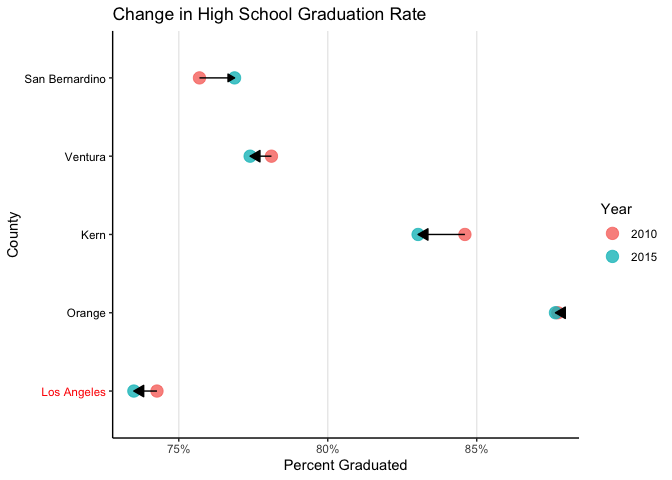
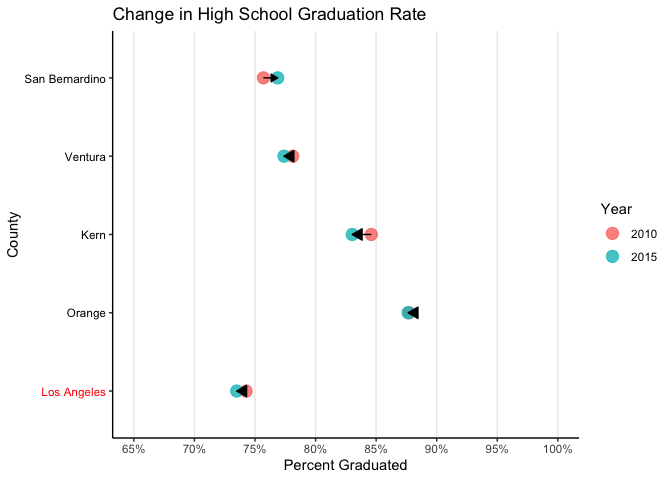
LA grad rates md file updated

diff --git a/2. Graph Creation/LA/LA-Final-Graphs.md b/2. Graph Creation/LA/LA-Final-Graphs.md
@@ -403,6 +403,7 @@ ggplot() +
   theme(panel.grid.major.x=element_line(), axis.text.y = element_text(colour = text_color))+
   scale_x_continuous(
             breaks=seq(50, 100, 5),
+            limits = c(65,100),
             labels = function(x){paste0(x*1, '%')}
             )
 ```
